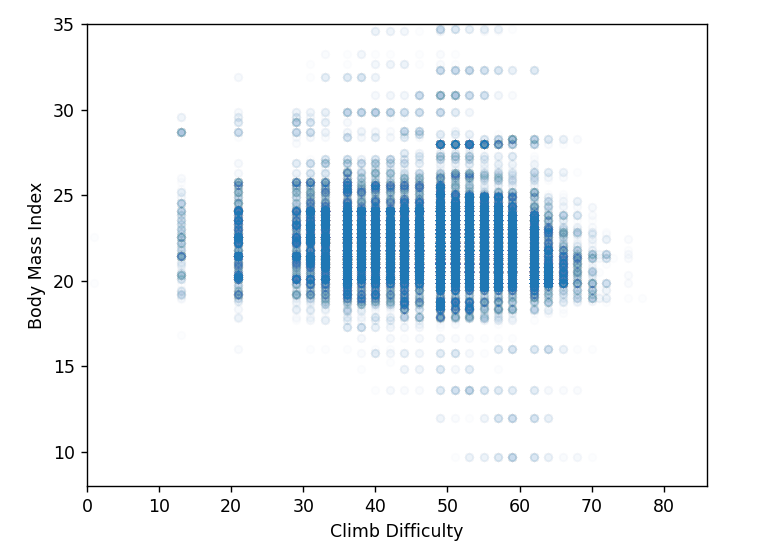
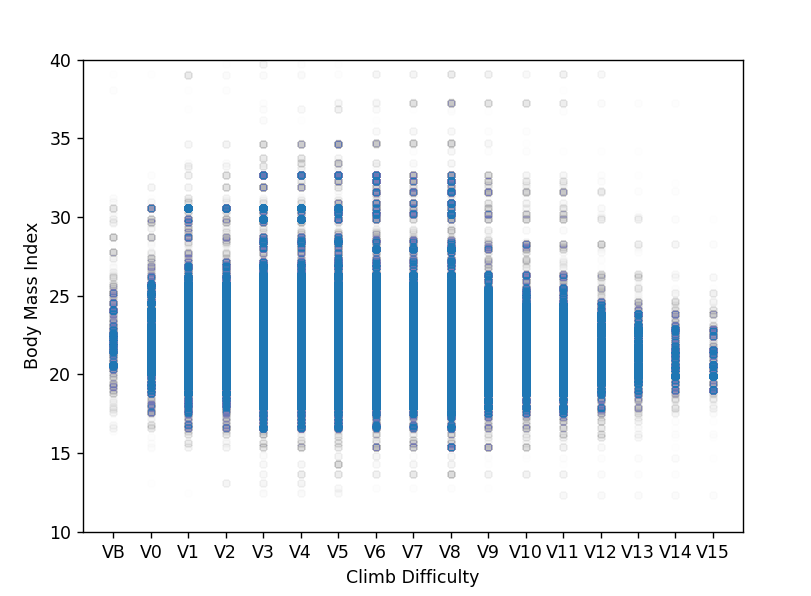
updated bmiScatter
redid scaling system
made visuals nicer to look at

Changed region(s): [[0.0311, 0.0311, 0.9339, 0.9963], [0.6226, 0.8095, 0.716, 0.8407], [0.2179, 0.2179, 0.249, 0.2491]]

diff --git a/py and excel/bmiScatter.py b/py and excel/bmiScatter.py
@@ -2,9 +2,8 @@ import csv
 import matplotlib.pyplot as plt
 import numpy as numpy
 
-
 # Gathers user data from csv file
-#  scrapes: id, sex, hiehgt, weight, year started
+#  scrapes: id, sex, height, weight, year started
 file = open('user.csv', encoding="utf8")
 csvreader = csv.reader(file)
 
@@ -73,7 +72,6 @@ for climber in ascent_data:
         x_points.append(int(climber[1]))
         y_points.append(user_bmi.get(climber[0]))
 
-
 # limit bmi points to a reasonable bmi range of 12-40 (due to user input errors)
 index = 0
 while index < len(x_points):
@@ -83,6 +81,81 @@ while index < len(x_points):
     else: 
         index = index+1
 
+# create and maintain order for graphin purposes
+x_points_conv = ["VB", "V0", "V1", "V2", "V3", "V4", "V5", "V6", "V7", "V8", "V9", 
+          "V10", "V11", "V12", "V13", "V14", "V15"]
+y_points_conv = [-1,-1,-1,-1,-1,-1,-1,-1,-1,-1,-1,-1,-1,-1,-1,-1,-1]
+# convert difficulty ratings to V-Scale
+for i in range(len(x_points)):
+    ### grade_id 0-16   VB
+    if x_points[i]<=16:
+        x_points_conv.append("VB")
+        y_points_conv.append(y_points[i])
+    ### grade_id 17-28  V0
+    elif x_points[i]>=17 and x_points[i]<=28:
+        x_points_conv.append("V0")
+        y_points_conv.append(y_points[i])
+    ### grade_id 29-32  V1
+    elif x_points[i]>=29 and x_points[i]<=32:
+        x_points_conv.append("V1")
+        y_points_conv.append(y_points[i])    
+    ### grade_id 33-35  V2
+    elif x_points[i]>=33 and x_points[i]<=35:
+        x_points_conv.append("V2")
+        y_points_conv.append(y_points[i])
+    ### grade_id 36-38  V3
+    elif x_points[i]>=36 and x_points[i]<=38:
+        x_points_conv.append("V3")
+        y_points_conv.append(y_points[i])
+    ### grade_id 39-42  V4
+    elif x_points[i]>=39 and x_points[i]<=42:
+        x_points_conv.append("V4")
+        y_points_conv.append(y_points[i])
+    ### grade_id 43-46  V5
+    elif x_points[i]>=43 and x_points[i]<=46:
+        x_points_conv.append("V5")
+        y_points_conv.append(y_points[i])    
+    ### grade_id 47-50  V6
+    elif x_points[i]>=47 and x_points[i]<=50:
+        x_points_conv.append("V6")
+        y_points_conv.append(y_points[i])
+    ### grade_id 51-52  V7
+    elif x_points[i]>=51 and x_points[i]<=52:
+        x_points_conv.append("V7")
+        y_points_conv.append(y_points[i])
+    ### grade_id 53-55  V8
+    elif x_points[i]>=53 and x_points[i]<=55:
+        x_points_conv.append("V8")
+        y_points_conv.append(y_points[i])
+    ### grade_id 56-58  V9
+    elif x_points[i]>=56 and x_points[i]<=58:
+        x_points_conv.append("V9")
+        y_points_conv.append(y_points[i])
+    ### grade_id 59-60  V10
+    elif x_points[i]>=59 and x_points[i]<=60:
+        x_points_conv.append("V10")
+        y_points_conv.append(y_points[i])
+    ### grade_id 61-63  V11
+    elif x_points[i]>=61 and x_points[i]<=63:
+        x_points_conv.append("V11")
+        y_points_conv.append(y_points[i])
+    ### grade_id 64-65  V12
+    elif x_points[i]>=64 and x_points[i]<=65:
+        x_points_conv.append("V12")
+        y_points_conv.append(y_points[i])
+    ### grade_id 66-67  V13
+    elif x_points[i]>=66 and x_points[i]<=67:
+        x_points_conv.append("V13")
+        y_points_conv.append(y_points[i])
+    ### grade_id 68-69  V14
+    elif x_points[i]>=68 and x_points[i]<=69:
+        x_points_conv.append("V14")
+        y_points_conv.append(y_points[i])
+    ### grade_id 70+    V15   
+    elif x_points[i]>=70:
+        x_points_conv.append("V15")
+        y_points_conv.append(y_points[i])
+
 
 # find average BMI of all climbers
 mean_bmi = float(0)
@@ -91,13 +164,13 @@ for bmi in y_points:
         mean_bmi = mean_bmi + bmi
         count = count+1
 mean_bmi = mean_bmi/count
-print("Average BMI of ", count, " climbers: ", mean_bmi)
+print("Average BMI of ", count, " climbers: ", "%.3f" % mean_bmi)
 
 
 # Scatter plot
-plt.scatter(x_points, y_points, s=20, alpha= .005)
+plt.scatter(x_points_conv, y_points_conv, s=20, alpha= .005)
 plt.ylabel('Body Mass Index')
 plt.xlabel('Climb Difficulty')
-plt.axis([0, 86, 8, 35])
+plt.ylim([10, 40])
 plt.show()
 

diff --git a/py and excel/avgBmi.py b/py and excel/avgBmi.py
@@ -96,40 +96,15 @@ print("Average BMI of ", count, " climbers: ", mean_bmi)
 # x_points -> grade_id
 # y_points -> bmi of climber
 # find average BMI of each grade Climber
-bmi_vb = float(0)
-count_vb = 0
-bmi_v0 = float(0)
-count_v0 = 0
-bmi_v1 = float(0)
-count_v1 = 0
-bmi_v2 = float(0)
-count_v2 = 0
-bmi_v3 = float(0)
-count_v3 = 0
-bmi_v4 = float(0)
-count_v4 = 0
-bmi_v5 = float(0)
-count_v5 = 0
-bmi_v6 = float(0)
-count_v6 = 0
-bmi_v7 = float(0)
-count_v7 = 0
-bmi_v8 = float(0)
-count_v8 = 0
-bmi_v9 = float(0)
-count_v9 = 0
-bmi_v10 = float(0)
-count_v10 = 0
-bmi_v11 = float(0)
-count_v11 = 0
-bmi_v12 = float(0)
-count_v12 = 0
-bmi_v13 = float(0)
-count_v13 = 0
-bmi_v14 = float(0)
-count_v14 = 0
-bmi_v15 = float(0)
-count_v15 = 0
+bmi_vb,bmi_v0,bmi_v1,bmi_v2,bmi_v3 = float(0),float(0),float(0),float(0),float(0)
+bmi_v4,bmi_v5,bmi_v6,bmi_v7 = float(0),float(0),float(0),float(0)
+bmi_v8,bmi_v9,bmi_v10,bmi_v11 = float(0),float(0),float(0),float(0)
+bmi_v12,bmi_v13,bmi_v14,bmi_v15 = float(0),float(0),float(0),float(0)
+count_vb,count_v0,count_v1,count_v2,count_v3 = 0,0,0,0,0
+count_v4,count_v5,count_v6,count_v7 = 0,0,0,0
+count_v8,count_v9,count_v10,count_v11 = 0,0,0,0
+count_v12,count_v13,count_v14,count_v15 = 0,0,0,0
+
 
 for gradedIndex in range(len(x_points)):
     if x_points[gradedIndex]<=16:                                  # grade_id 0-16   VB
